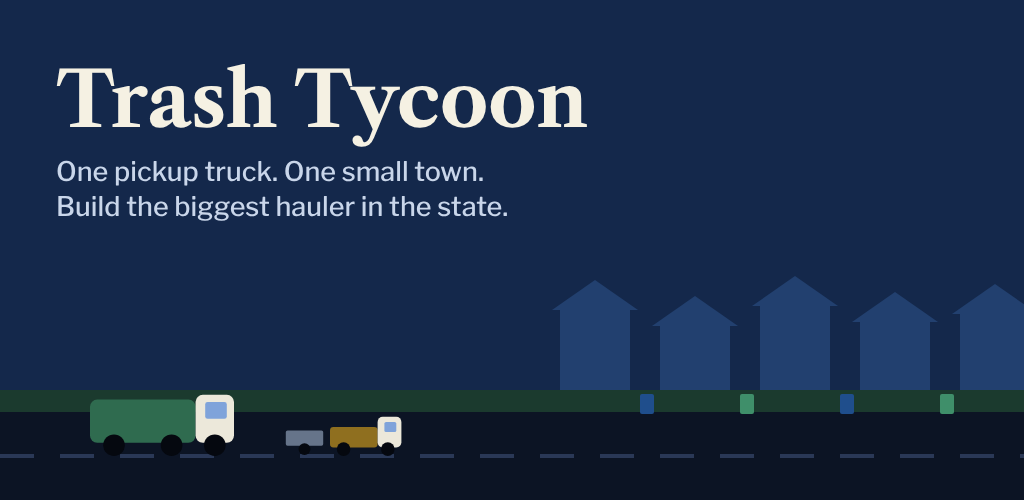
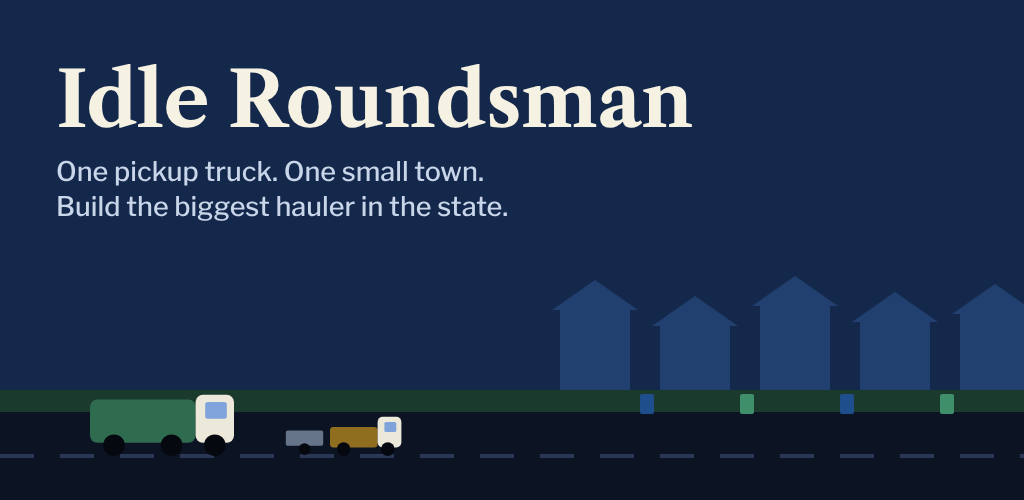
Rename the game to Idle Roundsman
New name in the app, Android app id (app.roundsman.idle), store listing,
feature graphic, privacy policy and docs. Saves from the old name carry over.

Claude-Session: https://claude.ai/code/session_0166XAft4qNeA37T4SKPDzUP

Changed region(s): [[0.0312, 0.12, 0.6875, 0.3]]

diff --git a/dist/idle-roundsman.html b/dist/idle-roundsman.html
@@ -3,7 +3,7 @@
 <head>
 <meta charset="utf-8">
 <meta name="viewport" content="width=device-width, initial-scale=1, viewport-fit=cover">
-<title>Trash Tycoon</title>
+<title>Idle Roundsman</title>
 <meta name="claude:viewport-fit-sides" content="cover">
 <meta name="theme-color" content="#14284B">
[1 lines of base64/hex data omitted]
@@ -159,7 +159,7 @@ textarea{min-height:90px;font-size:12px;font-family:ui-monospace,Menlo,monospace
 <nav class="tabs" id="tabs" aria-label="Sections"></nav>
 <div class="toast-wrap" id="toasts" aria-live="polite"></div>
 <script>
-/* Trash Tycoon engine: the whole simulation, with no screen code, so it runs the same in the app, in tests and in the pacing bot.
+/* Idle Roundsman engine: the whole simulation, with no screen code, so it runs the same in the app, in tests and in the pacing bot.
    Time is in seconds. Money is in dollars. Everything that grows uses a price multiplier per item already owned. */
 (function (root) {
 'use strict';
@@ -561,7 +561,7 @@ function nextGoals(s, n) {
 /* ---------- saves ---------- */
 function save(s) { s.lastSeen = Date.now(); return JSON.stringify(s); }
 function load(str) {
-  const j = typeof str === 'string' ? JSON.parse(str) : str; if (!j || j.v !== 1) throw new Error('Not a Trash Tycoon save.');
+  const j = typeof str === 'string' ? JSON.parse(str) : str; if (!j || j.v !== 1) throw new Error('Not an Idle Roundsman save.');
   const s = fresh(j.legacy); Object.keys(j).forEach(k => { s[k] = j[k]; });
   ['cust', 'trucks', 'stats', 'paused'].forEach(k => { s[k] = Object.assign({}, fresh()[k], j[k] || {}); });
   s.legacy = Object.assign({ stars: 0, earnedStars: 0, perks: {}, sales: 0, best: 0, achievements: {} }, j.legacy || {});
@@ -579,12 +579,12 @@ if (typeof module !== 'undefined' && module.exports) module.exports = api; else 
 
 </script>
 <script>
-/* Trash Tycoon screens. Each tab is built once; small "binds" refresh the numbers four times a second,
+/* Idle Roundsman screens. Each tab is built once; small "binds" refresh the numbers four times a second,
    and "sections" rebuild only when their shape changes, so a button is never swapped out under a finger. */
 (function () {
 'use strict';
 const T = window.TT, $ = s => document.querySelector(s);
-const KEY = 'trash-tycoon-save-v1';
+const KEY = 'trash-tycoon-save-v1'; // kept from the game's first name so existing saves carry over
 const money = T.fmtMoney, num = T.fmt;
 let S, tab = 'route', binds = {}, sections = {}, bid = 0, lastFrame = Date.now(), newTrophies = 0;
 
@@ -775,7 +775,7 @@ const VIEWS = {
         <div class="split"><span>Away time</span><b ${B(() => 'up to ' + T.mults(S).awayH + ' hours')}></b></div>
         <div class="split"><span>Start over completely</span><button class="btn ghost" data-a="wipeAsk">Erase</button></div>
         <div class="split"><span>Privacy</span><button class="btn ghost" data-a="privacy">Read</button></div></div>
-      <p class="muted small">Trash Tycoon ${T.VERSION}, built on the Roundsman world. Saves on this device every few seconds.</p>`;
+      <p class="muted small">Idle Roundsman ${T.VERSION}, built on the Roundsman world. Saves on this device every few seconds.</p>`;
   }
 };
 
@@ -813,7 +813,7 @@ const special = {
   theme(b) { S.theme = b.dataset.x; setTheme(S.theme); persist(); },
   exportSave() { const c = T.exportCode(S); modal(`<h2>Save code</h2><p class="small muted">Copy this and load it on another phone.</p><textarea readonly>${esc(c)}</textarea><div class="btns"><button class="btn" data-m="copy">Copy</button><button class="btn ghost" data-m="ok">Close</button></div>`, (k, m) => { if (k === 'copy') { const ta = m.querySelector('textarea'); ta.select(); try { navigator.clipboard.writeText(c); } catch (e) { document.execCommand('copy'); } note('Copied.'); } }); },
   importSave() { modal(`<h2>Load a save code</h2><p class="small muted">This replaces the game on this phone.</p><textarea></textarea><div class="btns"><button class="btn ghost" data-m="no">Cancel</button><button class="btn" data-m="load">Load</button></div>`, (k, m) => { if (k !== 'load') return; try { S = T.importCode(m.querySelector('textarea').value); setTheme(S.theme || 'auto'); persist(); show('route'); note('Save loaded.'); } catch (e) { note('That code did not work.'); return false; } }); },
-  privacy() { modal(`<h2>Privacy</h2><p>Trash Tycoon does not collect, store or share any personal information. There are no accounts, ads, analytics or trackers, and the game does not go online.</p><p>Your company is saved only on this device. A save code is created only when you press Copy, and goes only where you paste it. Uninstalling the game or pressing Erase deletes everything.</p><p class="small muted">Full policy: <a href="${T.PRIVACY_URL}" target="_blank" rel="noopener">${esc(T.PRIVACY_URL.replace('https://', ''))}</a></p><div class="btns"><button class="btn" data-m="ok">Close</button></div>`, () => {}); },
+  privacy() { modal(`<h2>Privacy</h2><p>Idle Roundsman does not collect, store or share any personal information. There are no accounts, ads, analytics or trackers, and the game does not go online.</p><p>Your company is saved only on this device. A save code is created only when you press Copy, and goes only where you paste it. Uninstalling the game or pressing Erase deletes everything.</p><p class="small muted">Full policy: <a href="${T.PRIVACY_URL}" target="_blank" rel="noopener">${esc(T.PRIVACY_URL.replace('https://', ''))}</a></p><div class="btns"><button class="btn" data-m="ok">Close</button></div>`, () => {}); },
   wipeAsk() { modal(`<h2>Erase everything?</h2><p>This deletes the company, your trophies and Legacy on this phone. It cannot be undone.</p><div class="btns"><button class="btn ghost" data-m="no">Cancel</button><button class="btn" style="background:var(--bad);border-color:var(--bad)" data-m="yes">Erase</button></div>`, k => { if (k === 'yes') { S = T.fresh(); persist(); show('route'); askName(); } }); }
 };
 function onClick(ev) {

diff --git a/web/ui.js b/web/ui.js
@@ -1,9 +1,9 @@
-/* Trash Tycoon screens. Each tab is built once; small "binds" refresh the numbers four times a second,
+/* Idle Roundsman screens. Each tab is built once; small "binds" refresh the numbers four times a second,
    and "sections" rebuild only when their shape changes, so a button is never swapped out under a finger. */
 (function () {
 'use strict';
 const T = window.TT, $ = s => document.querySelector(s);
-const KEY = 'trash-tycoon-save-v1';
+const KEY = 'trash-tycoon-save-v1'; // kept from the game's first name so existing saves carry over
 const money = T.fmtMoney, num = T.fmt;
 let S, tab = 'route', binds = {}, sections = {}, bid = 0, lastFrame = Date.now(), newTrophies = 0;
 
@@ -194,7 +194,7 @@ const VIEWS = {
         <div class="split"><span>Away time</span><b ${B(() => 'up to ' + T.mults(S).awayH + ' hours')}></b></div>
         <div class="split"><span>Start over completely</span><button class="btn ghost" data-a="wipeAsk">Erase</button></div>
         <div class="split"><span>Privacy</span><button class="btn ghost" data-a="privacy">Read</button></div></div>
-      <p class="muted small">Trash Tycoon ${T.VERSION}, built on the Roundsman world. Saves on this device every few seconds.</p>`;
+      <p class="muted small">Idle Roundsman ${T.VERSION}, built on the Roundsman world. Saves on this device every few seconds.</p>`;
   }
 };
 
@@ -232,7 +232,7 @@ const special = {
   theme(b) { S.theme = b.dataset.x; setTheme(S.theme); persist(); },
   exportSave() { const c = T.exportCode(S); modal(`<h2>Save code</h2><p class="small muted">Copy this and load it on another phone.</p><textarea readonly>${esc(c)}</textarea><div class="btns"><button class="btn" data-m="copy">Copy</button><button class="btn ghost" data-m="ok">Close</button></div>`, (k, m) => { if (k === 'copy') { const ta = m.querySelector('textarea'); ta.select(); try { navigator.clipboard.writeText(c); } catch (e) { document.execCommand('copy'); } note('Copied.'); } }); },
   importSave() { modal(`<h2>Load a save code</h2><p class="small muted">This replaces the game on this phone.</p><textarea></textarea><div class="btns"><button class="btn ghost" data-m="no">Cancel</button><button class="btn" data-m="load">Load</button></div>`, (k, m) => { if (k !== 'load') return; try { S = T.importCode(m.querySelector('textarea').value); setTheme(S.theme || 'auto'); persist(); show('route'); note('Save loaded.'); } catch (e) { note('That code did not work.'); return false; } }); },
-  privacy() { modal(`<h2>Privacy</h2><p>Trash Tycoon does not collect, store or share any personal information. There are no accounts, ads, analytics or trackers, and the game does not go online.</p><p>Your company is saved only on this device. A save code is created only when you press Copy, and goes only where you paste it. Uninstalling the game or pressing Erase deletes everything.</p><p class="small muted">Full policy: <a href="${T.PRIVACY_URL}" target="_blank" rel="noopener">${esc(T.PRIVACY_URL.replace('https://', ''))}</a></p><div class="btns"><button class="btn" data-m="ok">Close</button></div>`, () => {}); },
+  privacy() { modal(`<h2>Privacy</h2><p>Idle Roundsman does not collect, store or share any personal information. There are no accounts, ads, analytics or trackers, and the game does not go online.</p><p>Your company is saved only on this device. A save code is created only when you press Copy, and goes only where you paste it. Uninstalling the game or pressing Erase deletes everything.</p><p class="small muted">Full policy: <a href="${T.PRIVACY_URL}" target="_blank" rel="noopener">${esc(T.PRIVACY_URL.replace('https://', ''))}</a></p><div class="btns"><button class="btn" data-m="ok">Close</button></div>`, () => {}); },
   wipeAsk() { modal(`<h2>Erase everything?</h2><p>This deletes the company, your trophies and Legacy on this phone. It cannot be undone.</p><div class="btns"><button class="btn ghost" data-m="no">Cancel</button><button class="btn" style="background:var(--bad);border-color:var(--bad)" data-m="yes">Erase</button></div>`, k => { if (k === 'yes') { S = T.fresh(); persist(); show('route'); askName(); } }); }
 };
 function onClick(ev) {

diff --git a/docs/privacy-policy.html b/docs/privacy-policy.html
@@ -3,7 +3,7 @@
 <head>
 <meta charset="utf-8">
 <meta name="viewport" content="width=device-width, initial-scale=1">
-<title>Trash Tycoon Privacy Policy</title>
+<title>Idle Roundsman Privacy Policy</title>
 <style>
 :root{--bg:#ECE8DA;--panel:#FBF9F1;--ink:#14213A;--muted:#4A5870;--line:#D3CDB8;--accent:#1F4E8C}
 @media (prefers-color-scheme:dark){:root{--bg:#0C1424;--panel:#131C30;--ink:#ECE8DA;--muted:#9FAEC6;--line:#26324D;--accent:#7FA3DA;color-scheme:dark}}
@@ -18,10 +18,10 @@ a{color:var(--accent)}
 </head>
 <body>
 <main>
-<h1>Trash Tycoon Privacy Policy</h1>
-<p class="muted">Effective October 25, 2026. Applies to the Trash Tycoon app for Android and iPhone and the web version of the game.</p>
+<h1>Idle Roundsman Privacy Policy</h1>
+<p class="muted">Effective October 31, 2026. Applies to the Idle Roundsman app for Android and iPhone and the web version of the game.</p>
 
-<div class="box"><b>In short:</b> Trash Tycoon does not collect, store, share or sell any personal information. There are no accounts, no ads, no analytics and no trackers. Your game is saved only on your own device.</div>
+<div class="box"><b>In short:</b> Idle Roundsman does not collect, store, share or sell any personal information. There are no accounts, no ads, no analytics and no trackers. Your game is saved only on your own device.</div>
 
 <h2>What the app stores</h2>
 <p>The game saves your progress (your company name, money, trucks, towns, trophies and settings) in the app's own storage on your device. This information never leaves your device through the app. It is deleted when you uninstall the app or press <i>Company &gt; Settings &gt; Erase</i>.</p>

diff --git a/tools/bundle.js b/tools/bundle.js
@@ -11,6 +11,6 @@ if (frag) css = css.replace('.top{position:sticky;top:0;', '.top{position:sticky
 const fonts = '<link rel="preconnect" href="https://fonts.googleapis.com">\n<link rel="preconnect" href="https://fonts.gstatic.com" crossorigin>\n<link href="https://fonts.googleapis.com/css2?family=Libre+Franklin:wght@400;500;600;700&family=Libre+Caslon+Text:wght@400;700&display=swap" rel="stylesheet">';
 const bodyHtml = rd('index.html').split('<body>')[1].split('<script src="engine.js">')[0].trim();
 const js = `<script>\n${rd('engine.js')}\n</script>\n<script>\n${rd('ui.js')}\n</script>`;
-const head = `<title>Trash Tycoon</title>\n<meta name="claude:viewport-fit-sides" content="cover">\n<meta name="theme-color" content="#14284B">\n<link rel="icon" type="image/png" href="${icon}">\n${fonts}\n<style>\n${css}</style>`;
+const head = `<title>Idle Roundsman</title>\n<meta name="claude:viewport-fit-sides" content="cover">\n<meta name="theme-color" content="#14284B">\n<link rel="icon" type="image/png" href="${icon}">\n${fonts}\n<style>\n${css}</style>`;
 const html = frag ? `${head}\n${bodyHtml}\n${js}\n` : `<!DOCTYPE html>\n<html lang="en">\n<head>\n<meta charset="utf-8">\n<meta name="viewport" content="width=device-width, initial-scale=1, viewport-fit=cover">\n${head}\n</head>\n<body>\n${bodyHtml}\n${js}\n</body>\n</html>\n`;
 fs.writeFileSync(out, html); console.log('wrote', out, Math.round(html.length / 1024) + ' KB');

diff --git a/docs/index.html b/docs/index.html
@@ -1,5 +1,5 @@
 <!DOCTYPE html>
-<html lang="en"><head><meta charset="utf-8"><meta name="viewport" content="width=device-width, initial-scale=1"><title>Trash Tycoon</title>
+<html lang="en"><head><meta charset="utf-8"><meta name="viewport" content="width=device-width, initial-scale=1"><title>Idle Roundsman</title>
 <style>body{margin:0;background:#14284B;color:#F5F1E3;font:16px/1.6 system-ui,-apple-system,Roboto,Arial,sans-serif}main{max-width:620px;margin:0 auto;padding:40px 20px}h1{font:700 32px Georgia,serif;margin:0}a{color:#9FC2F0}img{border-radius:22px}</style></head>
-<body><main><img src="icon-192.png" width="96" height="96" alt=""><h1>Trash Tycoon</h1><p>Grow a trash company from one pickup truck into the biggest hauler in the state. An idle game built on the Roundsman route software.</p>
+<body><main><img src="icon-192.png" width="96" height="96" alt=""><h1>Idle Roundsman</h1><p>Grow a trash company from one pickup truck into the biggest hauler in the state. An idle game built on the Roundsman route software.</p>
 <p><a href="privacy-policy.html">Privacy policy</a> · <a href="https://github.com/MHelton1/Trash-Tycoon/issues">Contact</a></p></main></body></html>

diff --git a/web/engine.js b/web/engine.js
@@ -1,4 +1,4 @@
-/* Trash Tycoon engine: the whole simulation, with no screen code, so it runs the same in the app, in tests and in the pacing bot.
+/* Idle Roundsman engine: the whole simulation, with no screen code, so it runs the same in the app, in tests and in the pacing bot.
    Time is in seconds. Money is in dollars. Everything that grows uses a price multiplier per item already owned. */
 (function (root) {
 'use strict';
@@ -400,7 +400,7 @@ function nextGoals(s, n) {
 /* ---------- saves ---------- */
 function save(s) { s.lastSeen = Date.now(); return JSON.stringify(s); }
 function load(str) {
-  const j = typeof str === 'string' ? JSON.parse(str) : str; if (!j || j.v !== 1) throw new Error('Not a Trash Tycoon save.');
+  const j = typeof str === 'string' ? JSON.parse(str) : str; if (!j || j.v !== 1) throw new Error('Not an Idle Roundsman save.');
   const s = fresh(j.legacy); Object.keys(j).forEach(k => { s[k] = j[k]; });
   ['cust', 'trucks', 'stats', 'paused'].forEach(k => { s[k] = Object.assign({}, fresh()[k], j[k] || {}); });
   s.legacy = Object.assign({ stars: 0, earnedStars: 0, perks: {}, sales: 0, best: 0, achievements: {} }, j.legacy || {});

diff --git a/web/index.html b/web/index.html
@@ -6,13 +6,13 @@
 <meta name="theme-color" content="#14284B">
 <meta name="mobile-web-app-capable" content="yes">
 <meta name="apple-mobile-web-app-capable" content="yes">
-<meta name="apple-mobile-web-app-title" content="Trash Tycoon">
+<meta name="apple-mobile-web-app-title" content="Idle Roundsman">
 <meta name="apple-mobile-web-app-status-bar-style" content="black-translucent">
 <meta name="description" content="Build a trash company from one pickup truck to the biggest hauler in the state.">
 <link rel="manifest" href="manifest.webmanifest">
 <link rel="apple-touch-icon" href="icons/icon-180.png">
 <link rel="icon" type="image/png" href="icons/icon-192.png">
-<title>Trash Tycoon</title>
+<title>Idle Roundsman</title>
 <link rel="preconnect" href="https://fonts.googleapis.com">
 <link rel="preconnect" href="https://fonts.gstatic.com" crossorigin>
 <link href="https://fonts.googleapis.com/css2?family=Libre+Franklin:wght@400;500;600;700&family=Libre+Caslon+Text:wght@400;700&display=swap" rel="stylesheet">

diff --git a/web/sw.js b/web/sw.js
@@ -1,5 +1,5 @@
 /* Keeps the game playable with no signal: everything is cached on first load. */
-const CACHE = 'trash-tycoon-v1';
+const CACHE = 'idle-roundsman-v1';
 const FILES = ['./', 'index.html', 'style.css', 'engine.js', 'ui.js', 'manifest.webmanifest', 'icons/icon-192.png', 'icons/icon-512.png'];
 self.addEventListener('install', e => { e.waitUntil(caches.open(CACHE).then(c => c.addAll(FILES)).then(() => self.skipWaiting())); });
 self.addEventListener('activate', e => { e.waitUntil(caches.keys().then(ks => Promise.all(ks.filter(k => k !== CACHE).map(k => caches.delete(k)))).then(() => self.clients.claim())); });

diff --git a/apps/mobile/android/app/src/main/java/app/roundsman/idle/MainActivity.java b/apps/mobile/android/app/src/main/java/app/roundsman/idle/MainActivity.java
@@ -1,4 +1,4 @@
-package app.roundsman.trashtycoon;
+package app.roundsman.idle;
 
 import com.getcapacitor.BridgeActivity;
 

diff --git a/PLAY_STORE.md b/PLAY_STORE.md
@@ -1,4 +1,4 @@
-# Publishing Trash Tycoon on Google Play
+# Publishing Idle Roundsman on Google Play
 
 Everything in the app is already set up for Google Play's current rules:
 
@@ -11,7 +11,7 @@ Everything in the app is already set up for Google Play's current rules:
 | Data safety must match what the app does | The app collects nothing, asks for no permissions (not even internet) and contains no ads, analytics or third-party code |
 | Edge-to-edge screens on Android 15 and 16 | The header and tab bar stay clear of the status and navigation bars |
 | No 32-bit-only native code, 16 KB page support | The app has no native code, so neither applies |
-| Original name, icon and art | All drawn for this game; the listing name adds "Roundsman" to stay distinct from other "Trash Tycoon" games |
+| Original name, icon and art | All drawn for this game; no other app found using the name Idle Roundsman |
 
 ## 1. Add your upload key to GitHub (once)
 
@@ -26,15 +26,15 @@ Your upload key is in the project files, in `trash-tycoon-signing/`. It is **not
 
 1. GitHub repo > **Actions** > **Build Android app** > **Run workflow**. Type the version (1.0.0 the first time) and run it.
 2. When it finishes (about 5 minutes), scroll to **Artifacts** at the bottom of the run:
-   - `Trash-Tycoon-google-play-…` holds `app-release.aab`, which is the file for Google Play.
-   - `Trash-Tycoon-test-apk-…` holds `app-debug.apk`, which you can install straight onto your own phone to try it.
+   - `Idle-Roundsman-google-play-…` holds `app-release.aab`, which is the file for Google Play.
+   - `Idle-Roundsman-test-apk-…` holds `app-debug.apk`, which you can install straight onto your own phone to try it.
 
 Each push to the repo also runs the tests and builds both files.
 
 ## 3. Create the app in Play Console
 
 Play Console (play.google.com/console, $25 one-time developer fee) > **Create app**:
-- App name: **Roundsman Trash Tycoon**
+- App name: **Idle Roundsman**
 - Default language: English (United States)
 - App or game: **Game**. Free or paid: **Free**
 - Tick the two declarations.

diff --git a/README.md b/README.md
@@ -1,10 +1,12 @@
-# Trash Tycoon
+# Idle Roundsman
+
+(First called Trash Tycoon; the repository keeps that name so the privacy policy link stays the same.)
 
 An idle game built on the Roundsman world: start with one pickup and a trailer in Maple Hollow and grow a waste company however you like. No outside packages; plain HTML, CSS and JavaScript, the same way Roundsman is built.
 
 ## Play it
 
-- **In a browser:** open `dist/trash-tycoon.html` (one file, works offline), or serve the `web/` folder (`npx http-server web`) and open it.
+- **In a browser:** open `dist/idle-roundsman.html` (one file, works offline), or serve the `web/` folder (`npx http-server web`) and open it.
 - **iPhone, quickest:** put the `web/` folder on any HTTPS address, open it in Safari, Share, Add to Home Screen. It works with no signal after the first load.
 - **Android app:** every push builds a test APK on GitHub (Actions > Build Android app > the run > Artifacts). Send `app-debug.apk` to a phone and open it (allow "install unknown apps").
 - **Google Play:** see [PLAY_STORE.md](PLAY_STORE.md) for the signed release build and every Play Console answer.
@@ -49,4 +51,4 @@ Routes keep running while you are away (4 hours to start, more with upgrades). T
 - `store/`: Google Play listing text, icon, feature graphic and screenshots.
 - `test/engine.test.js`: `node test/engine.test.js`.
 - `tools/sim.js`: a bot that plays greedily and prints when it hits each milestone (`node tools/sim.js 6`), for checking pacing after changing numbers.
-- `tools/bundle.js`: rebuilds `dist/trash-tycoon.html`. `tools/icons.py` redraws the icons.
+- `tools/bundle.js`: rebuilds `dist/idle-roundsman.html`. `tools/icons.py` redraws the icons.

diff --git a/store/listing.md b/store/listing.md
@@ -4,9 +4,9 @@ Copy these into Play Console > Grow users > Store presence > Main store listing.
 
 ## App name (30 characters max)
 
-Roundsman Trash Tycoon
+Idle Roundsman
 
-(Several other games on Google Play and the App Store already use the name "Trash Tycoon". Putting your Roundsman brand in front keeps the listing distinct, which helps with Google's rule against names that could be confused with another app. The name on the phone's home screen stays "Trash Tycoon".)
+(The same name shows under the icon on the phone.)
 
 ## Short description (80 characters max)
 
